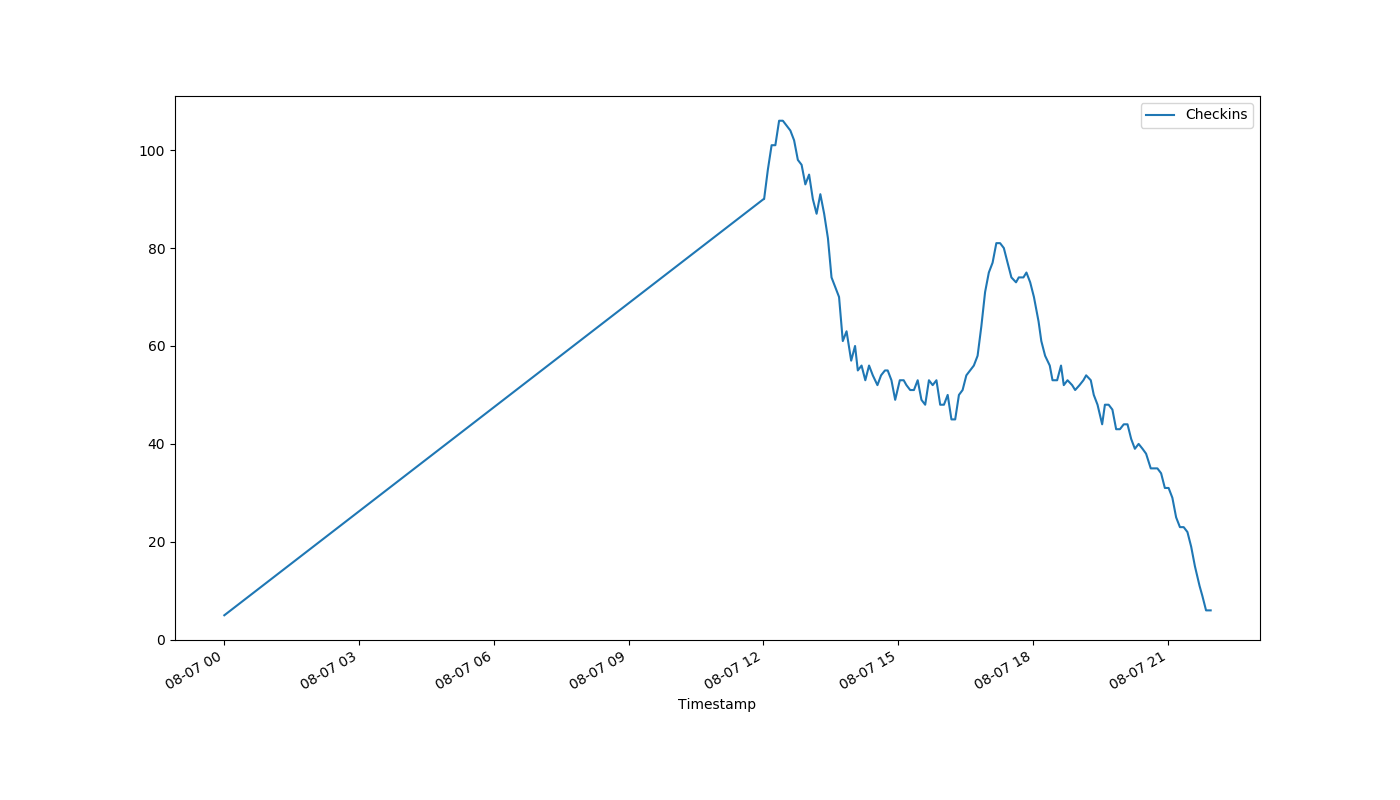
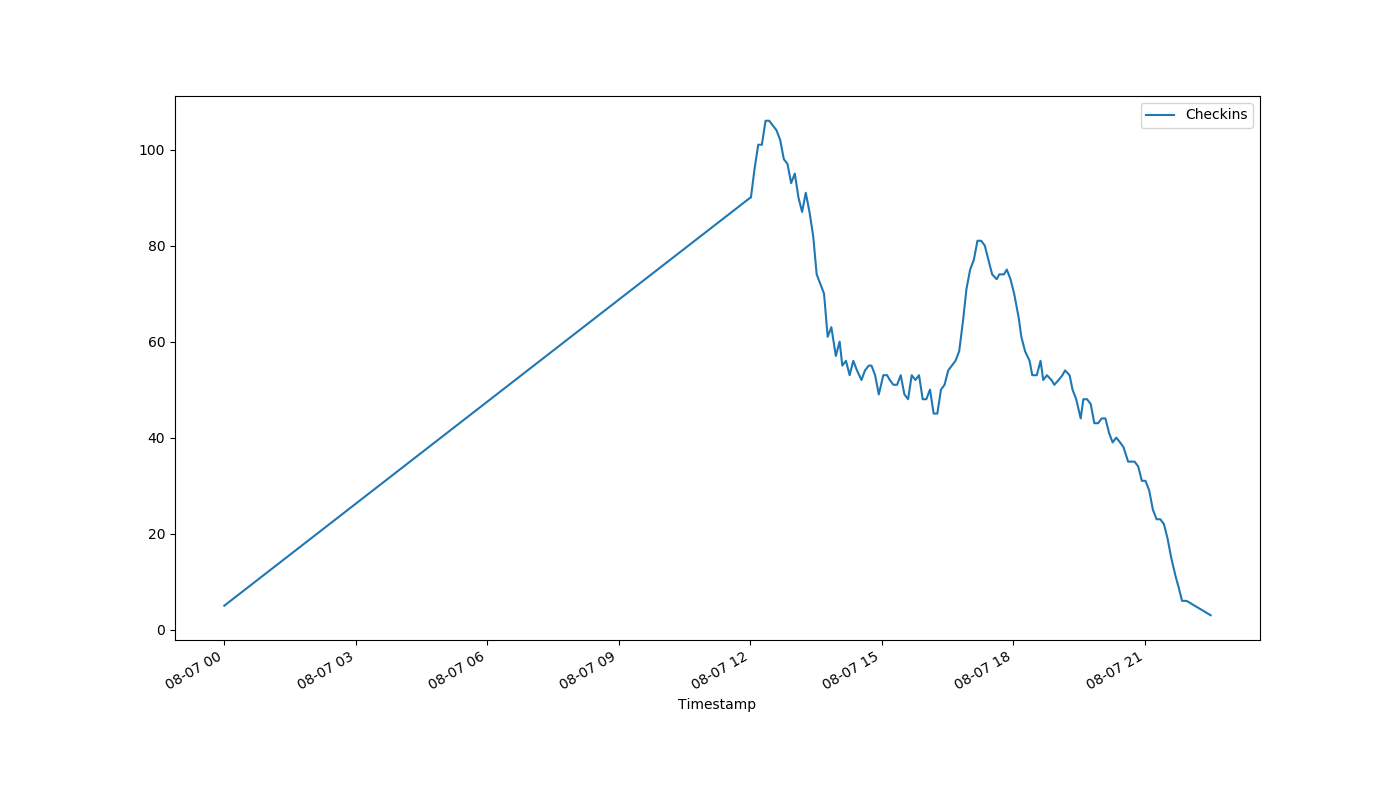
auto-Aug-07-22:32:19

diff --git a/index.html b/index.html
@@ -1,1 +1,1 @@
-<!DOCTYPE html><html><head><meta http-equiv="refresh" content="30"><link rel='stylesheet' href='holmcurrent.css'></head><body><p id='count'>6</p><div id='graph-wrap'><img id='graph' src='holmgraph-Aug-07.png'></div><p id='updated'>Last updated 21:58:13 / 21:57:17</p></body></html>
+<!DOCTYPE html><html><head><meta http-equiv="refresh" content="30"><link rel='stylesheet' href='holmcurrent.css'></head><body><p id='count'>3</p><div id='graph-wrap'><img id='graph' src='holmgraph-Aug-07.png'></div><p id='updated'>Last updated 22:31:13 / 22:30:18</p></body></html>
